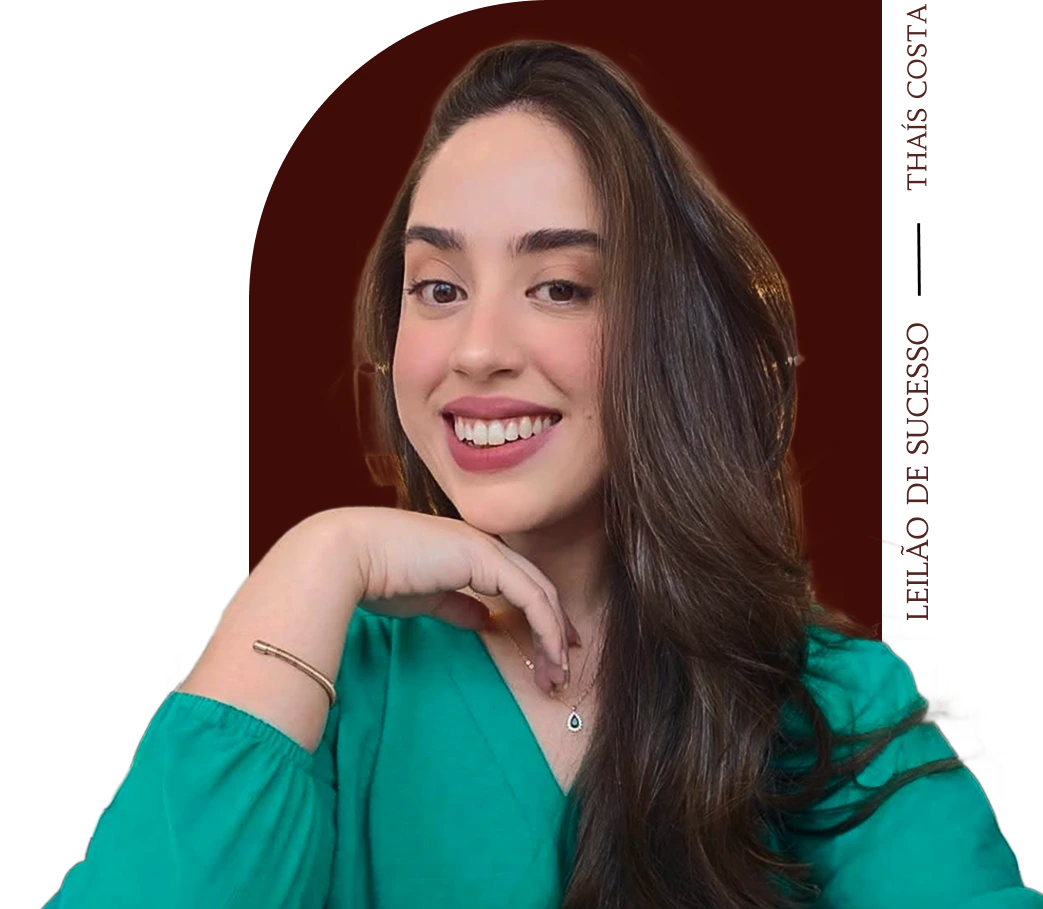
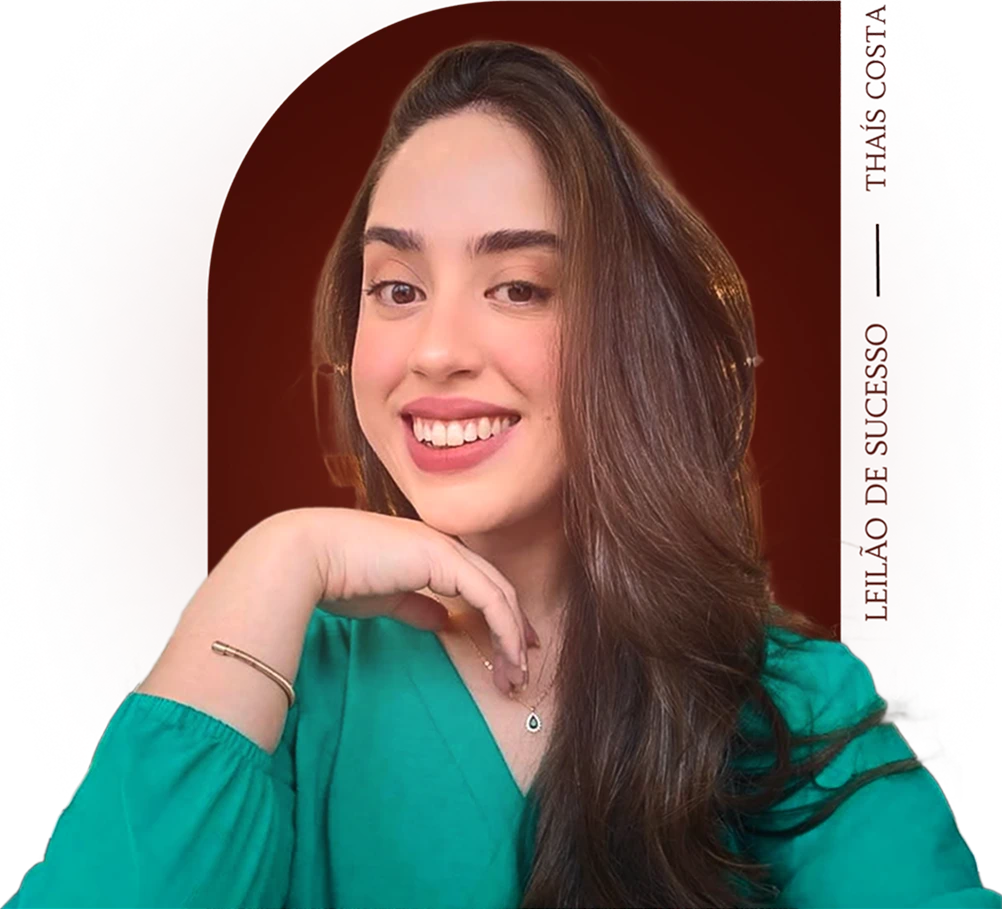
fix: Imagem Hero

diff --git a/src/components/sections/lp01/FeaturesLP4Pontos.jsx b/src/components/sections/lp01/FeaturesLP4Pontos.jsx
@@ -10,14 +10,18 @@ function FeaturesLP4Pontos() {
       {/* BLOCO VERMELHO 1 - Letreiro */}
       <div className=" bg-rolagem text-white overflow-hidden ">
         <div className="flex gap-6 whitespace-nowrap animate-letreiro py-2 font-mainFont">
-          <span>
+          <p>
             O primeiro passo - Mitos e Verdades - Análise de Edital - Riscos e
-            Cuidados
-          </span>
-          <span>
-            O primeiro passo - Mitos e Verdades - Análise de Edital - Riscos e
-            Cuidados
-          </span>
+            Cuidados -{" "}
+            <span>
+              O primeiro passo - Mitos e Verdades - Análise de Edital - Riscos e
+              Cuidados -
+            </span>{" "}
+            <span>
+              O primeiro passo - Mitos e Verdades - Análise de Edital - Riscos e
+              Cuidados -
+            </span>
+          </p>
         </div>
       </div>
 
@@ -34,7 +38,7 @@ function FeaturesLP4Pontos() {
                   className="mb-[10px]"
                 /> */}
 
-                <h2 className="font-mainFont text-title3 phone2:text-title4 tablet1:text-title5 font-light mb-2 leading-[30px]">
+                <h2 className="font-mainFont text-title3 phone2:text-title4 tablet1:text-title5 font-light mb-2 leading-[30px] desktop1:leading-[40px]">
                   LEILÃO DE <span className="font-semibold">SUCESSO</span>{" "}
                   <br />
                   para iniciantes

diff --git a/src/components/sections/lp01/HeroNovaLPV.jsx b/src/components/sections/lp01/HeroNovaLPV.jsx
@@ -32,7 +32,7 @@ function HeroNovaLPV() {
               <img
                 src={contentLp01.hero.imgPerson}
                 alt=""
-                className="w-[90%]"
+                className="w-[90%] m-auto"
               />
             </div>
           </SectionWrapper>
